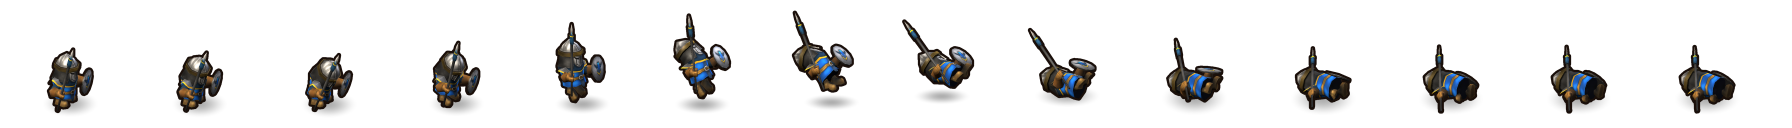
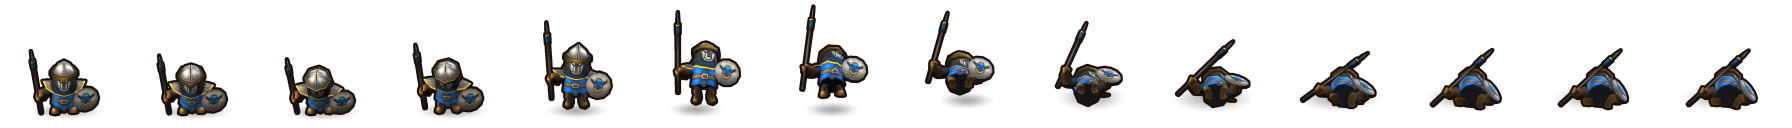
Soldier faces the player; side view only while marching
Idle, victory and death are rendered from the front; the walk strip
stays at the 3/4 side angle so marching reads as walking. All strips
share one scale and ground line.

Changed region(s): [[0.375, 0.0625, 1.0, 0.9062], [0.1562, 0.1875, 0.3438, 0.9375], [0.0, 0.375, 0.125, 0.9375]]

diff --git a/client/Assets/_Project/Editor/TroopRenderer.cs b/client/Assets/_Project/Editor/TroopRenderer.cs
@@ -44,18 +44,19 @@ namespace WarPoker.EditorTools
         /// frame 0; one-shots sample [t0, t1] inclusive so the last frame is the final pose.
         struct Strip
         {
-            public string File, Clip; public int Frames; public float T0, T1; public bool Loop;
-            public Strip(string file, string clip, int frames, float t0, float t1, bool loop)
-            { File = file; Clip = clip; Frames = frames; T0 = t0; T1 = t1; Loop = loop; }
+            public string File, Clip; public int Frames; public float T0, T1; public bool Loop; public float Yaw;
+            public Strip(string file, string clip, int frames, float t0, float t1, bool loop, float yaw)
+            { File = file; Clip = clip; Frames = frames; T0 = t0; T1 = t1; Loop = loop; Yaw = yaw; }
         }
         // At most 16 frames per strip: 16 x 128 = 2048 px is the sprite importer's default max texture size
         // (a wider strip would be downscaled on import and every frame blurred).
         static readonly Strip[] Strips =
         {
-            new Strip("soldier_idle.png",    "Footman_Idle",    12, 0f, 1f,         true),
-            new Strip("soldier_walk.png",    "Footman_Walk",    12, 0f, 4f / 3f,    true),
-            new Strip("soldier_victory.png", "Footman_Victory", 16, 0f, 10f / 3f,   false),
-            new Strip("soldier_death.png",   "Footman_Death",   14, 0f, 1f,         false),
+            // Standing clips face the player; the march is seen from the side so it reads as walking.
+            new Strip("soldier_idle.png",    "Footman_Idle",    12, 0f, 1f,         true,  FrontYaw),
+            new Strip("soldier_walk.png",    "Footman_Walk",    12, 0f, 4f / 3f,    true,  SideYaw),
+            new Strip("soldier_victory.png", "Footman_Victory", 16, 0f, 10f / 3f,   false, FrontYaw),
+            new Strip("soldier_death.png",   "Footman_Death",   14, 0f, 1f,         false, FrontYaw),
         };
         const string IconFile = "soldier.png";
 
@@ -63,8 +64,10 @@ namespace WarPoker.EditorTools
         const int Icon = 256;          // static icon px
         const int SS = 4;              // supersampling factor
         const float CamPitch = 24f;    // degrees looking down
-        const float DefaultYaw = 125f; // model faces +Z; 180 = facing the camera, 90 = profile facing screen right
-        static float Yaw => float.TryParse(Arg("-troopYaw"), System.Globalization.NumberStyles.Float, System.Globalization.CultureInfo.InvariantCulture, out var y) ? y : DefaultYaw;
+        // Model faces +Z; 180 = facing the camera, 90 = profile facing screen right.
+        const float FrontYaw = 180f, SideYaw = 125f;
+        /// -troopYaw &lt;deg&gt; forces one angle for every strip (for trying looks); otherwise each strip uses its own.
+        static float YawFor(Strip s) => float.TryParse(Arg("-troopYaw"), System.Globalization.NumberStyles.Float, System.Globalization.CultureInfo.InvariantCulture, out var y) ? y : s.Yaw;
         const float Pad = 0.02f;       // frame padding (fraction of the side), outline added on top
         const float OutlineFrac = 2.25f / 128f; // outline thickness as a fraction of the output side
         static readonly Color OutlineCol = new Color(0.10f, 0.06f, 0.04f, 1f);
@@ -169,7 +172,7 @@ namespace WarPoker.EditorTools
             {
                 var pivot = new GameObject("pivot");
                 pivot.transform.SetParent(stage.transform, false);
-                pivot.transform.rotation = Quaternion.Euler(0, Yaw, 0);
+                pivot.transform.rotation = Quaternion.Euler(0, YawFor(Strips[0]), 0);
                 var prefab = AssetDatabase.LoadAssetAtPath<GameObject>(Model);
                 var ch = (GameObject)Object.Instantiate(prefab, pivot.transform, false);
                 ch.transform.localPosition = Vector3.zero; ch.transform.localRotation = Quaternion.identity;
@@ -182,6 +185,7 @@ namespace WarPoker.EditorTools
                 var poses = new List<List<Pose>>();
                 foreach (var s in Strips)
                 {
+                    pivot.transform.rotation = Quaternion.Euler(0, YawFor(s), 0);
                     var clip = LoadClip(AnimDir + s.Clip + ".fbx");
                     var list = new List<Pose>();
                     for (int i = 0; i < s.Frames; i++)
